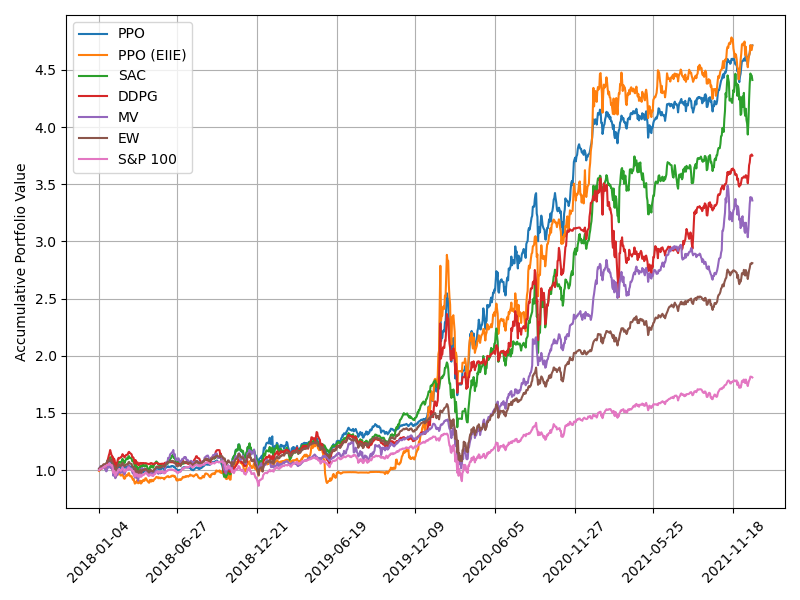
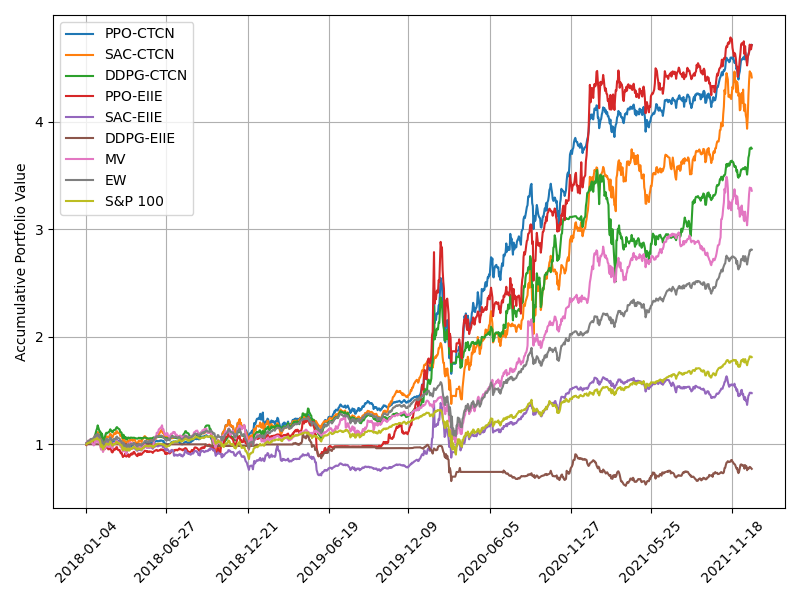
before_modification

diff --git a/final.py b/final.py
@@ -8,8 +8,9 @@ import matplotlib.dates as mdates
 PPO_TCN_PATH = 'save_/result/PPO_TCN'
 PPO_EIIE_PATH = 'save_/result/PPO_EIIE'
 DDPG_TCN_PATH = 'save_/result/DDPG'
-#DDPG_EIIE_PATH = 'save_/result/DDPG_EIIE'
+DDPG_EIIE_PATH = 'save_/result/DDPG_EIIE'
 SAC_TCN_PATH = 'save_/result/SAC'
+SAC_EIIE_PATH = 'save_/result/SAC_EIIE'
 # turbulance
 TU_140 = PPO_TCN_PATH
 TU_NONE = 'save_/result/PPO_TCN_notu'
@@ -58,17 +59,18 @@ def fig_setting(ax, legend, file):
 
 def final():
     ppo_tcn, mv, ew, _, sp100, dates = load_values(PPO_TCN_PATH)
-    ppo_eiie = load_values(PPO_EIIE_PATH)[0]
-    ddpg_tcn = load_values(DDPG_TCN_PATH)[0]
-    #ddpg_eiie = load_values(DDPG_EIIE_PATH)[0]
     sac_tcn = load_values(SAC_TCN_PATH)[0]
+    ddpg_tcn = load_values(DDPG_TCN_PATH)[0]
+    ppo_eiie = load_values(PPO_EIIE_PATH)[0]
+    sac_eiie = load_values(SAC_EIIE_PATH)[0]
+    ddpg_eiie = load_values(DDPG_EIIE_PATH)[0]
+    
     plt.figure(figsize=(8, 6))
     ax = plt.subplot()
-    ax.plot(dates, ppo_tcn, dates, ppo_eiie)
-    ax.plot(dates, sac_tcn)
-    ax.plot(dates, ddpg_tcn)
+    ax.plot(dates, ppo_tcn, dates, sac_tcn, dates, ddpg_tcn)
+    ax.plot(dates, ppo_eiie, dates, sac_eiie, dates, ddpg_eiie)
     ax.plot(dates, mv, dates, ew, dates, sp100)
-    legend = ['PPO', 'PPO (EIIE)', 'SAC', 'DDPG', 'MV', 'EW', 'S&P 100']
+    legend = ['PPO-CTCN', 'SAC-CTCN', 'DDPG-CTCN', 'PPO-EIIE', 'SAC-EIIE', 'DDPG-EIIE', 'MV', 'EW', 'S&P 100']
     f = 'final'
     fig_setting(ax, legend, f)
 

diff --git a/run.py b/run.py
@@ -35,7 +35,7 @@ def main():
     # train
     if not args.test and not args.backtest:  
         path = create_path(args)
-        for year in years[:]:
+        for year in years[2:]:
             for Q in quaters[:]:
                 target_stocks, action_dim = targets(year=year, Q=Q, num=target_num)
                 agent = Agent(args, action_dim)

diff --git a/test.py b/test.py
@@ -10,7 +10,7 @@ from utils.evaluation import evaluation_metrics
 from utils.recorder import Recorder
 
 TEST_NUM = 5
-TURBULENCE_THRESHOLD = 100
+TURBULENCE_THRESHOLD = 140
 
 
 def test(args, agent, recorder, target_stocks, test_history, 

diff --git a/path.py b/path.py
@@ -1,3 +1,3 @@
 def test_path():
-    path = './save_/2022-04/2022-04-26/075400_100/'
+    path = './save_/2022-06-22/144625/'
     return path
